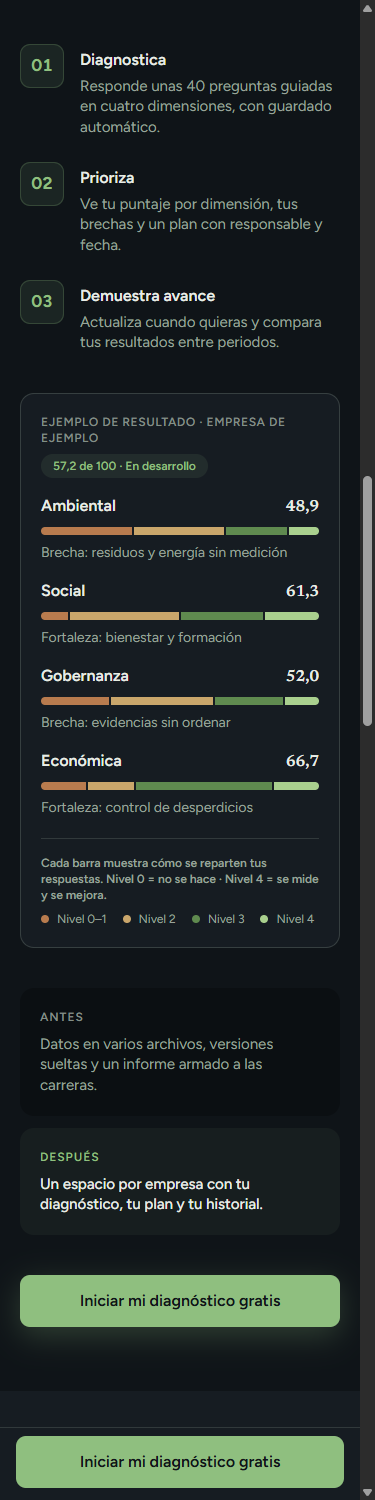
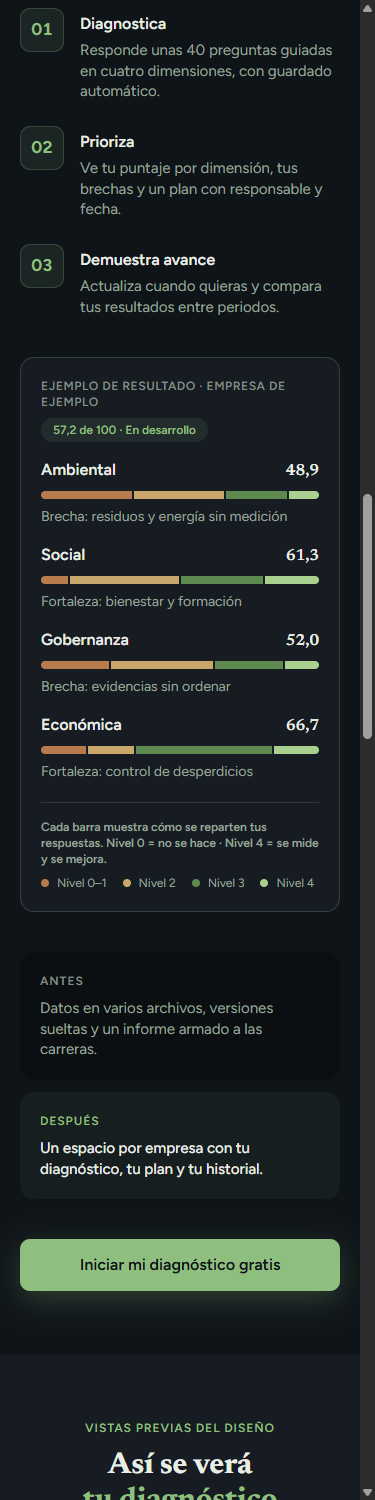
feat: agitacion con consecuencias, puente tras la calculadora, selector bajo el titulo, barra fija inteligente

diff --git a/components/landing/OfertaPorPerfil.tsx b/components/landing/OfertaPorPerfil.tsx
@@ -82,49 +82,49 @@ export function OfertaPorPerfil() {
   const [perfil, setPerfil] = useState<Perfil>('empresa');
   const planes = PLANES[perfil];
 
+  const selector = (
+    <div className="flex w-full max-w-md flex-col items-center gap-2">
+      <p className="text-sm font-medium text-[var(--text-secondary)]">¿Para quién es tu plan?</p>
+      <div
+        role="tablist"
+        aria-label="Tipo de plan"
+        className="flex w-full gap-1 rounded-[var(--radius-button)] border border-[color-mix(in_oklab,var(--text-tertiary)_35%,transparent)] bg-[var(--surface)] p-1"
+      >
+        {OPCIONES.map((op) => {
+          const activo = op.id === perfil;
+          return (
+            <button
+              key={op.id}
+              role="tab"
+              aria-selected={activo}
+              type="button"
+              onClick={() => setPerfil(op.id)}
+              onKeyDown={(e) => {
+                if (e.key === 'ArrowRight' || e.key === 'ArrowLeft') {
+                  e.preventDefault();
+                  setPerfil(op.id === 'empresa' ? 'consultor' : 'empresa');
+                }
+              }}
+              className={`flex min-h-12 flex-1 flex-col items-center justify-center rounded-[var(--radius-button)] px-3 text-sm font-semibold transition-colors duration-200 ${
+                activo ? 'bg-[var(--accent)] text-[var(--bg)]' : 'text-[var(--text-secondary)] hover:text-[var(--text-primary)]'
+              }`}
+            >
+              {op.label}
+              <span className={`text-xs font-medium ${activo ? 'opacity-80' : 'opacity-70'}`}>{op.detalle}</span>
+            </button>
+          );
+        })}
+      </div>
+    </div>
+  );
+
   return (
     <div id="planes">
-      <div className="bg-[var(--bg)] px-5 pt-16 md:pt-24">
-        <div className="mx-auto flex max-w-6xl flex-col items-center gap-2">
-          <p className="text-sm font-medium text-[var(--text-secondary)]">¿Para quién es tu plan?</p>
-          <div
-            role="tablist"
-            aria-label="Tipo de plan"
-            className="flex w-full max-w-md gap-1 rounded-[var(--radius-button)] border border-[color-mix(in_oklab,var(--text-tertiary)_35%,transparent)] bg-[var(--surface)] p-1"
-          >
-            {OPCIONES.map((o) => {
-              const activo = o.id === perfil;
-              return (
-                <button
-                  key={o.id}
-                  role="tab"
-                  aria-selected={activo}
-                  type="button"
-                  onClick={() => setPerfil(o.id)}
-                  onKeyDown={(e) => {
-                    if (e.key === 'ArrowRight' || e.key === 'ArrowLeft') {
-                      e.preventDefault();
-                      setPerfil(o.id === 'empresa' ? 'consultor' : 'empresa');
-                    }
-                  }}
-                  className={`flex min-h-12 flex-1 flex-col items-center justify-center rounded-[var(--radius-button)] px-3 text-sm font-semibold transition-colors duration-200 ${
-                    activo
-                      ? 'bg-[var(--accent)] text-[var(--bg)]'
-                      : 'text-[var(--text-secondary)] hover:text-[var(--text-primary)]'
-                  }`}
-                >
-                  {o.label}
-                  <span className={`text-xs font-medium ${activo ? 'opacity-80' : 'opacity-70'}`}>{o.detalle}</span>
-                </button>
-              );
-            })}
-          </div>
-        </div>
-      </div>
       <Oferta
         key={perfil}
         tituloMarked="Empieza gratis, [acento]sin tarjeta[/acento]"
         trialDias={TRIAL_DIAS}
+        selector={selector}
         anual={planes.anual}
         mensual={planes.mensual}
       />

diff --git a/components/landing/ui.tsx b/components/landing/ui.tsx
@@ -195,6 +195,7 @@ export function CtaButton({
         whileTap={{ scale: 0.97 }}
         href={href}
         aria-busy={estado === 'abriendo'}
+        data-cta-inline=""
         onClick={alTocar}
         className={`inline-flex w-full items-center justify-center whitespace-nowrap rounded-[var(--radius-button)] bg-[var(--accent)] px-4 text-center text-[16px] font-semibold text-[var(--bg)] shadow-[0_8px_30px_color-mix(in_oklab,var(--accent)_25%,transparent)] transition-colors duration-150 hover:bg-[color-mix(in_oklab,var(--accent)_88%,var(--text-primary))] sm:w-auto sm:px-8 sm:text-[17px] [touch-action:manipulation] ${
           alto === 56 ? 'h-14' : 'h-[52px]'
@@ -237,6 +238,7 @@ export function StickyCtaMobile({
   const [ofertaVisible, setOfertaVisible] = useState(false);
   const [ofertaVista, setOfertaVista] = useState(false);
   const [finalVisible, setFinalVisible] = useState(false);
+  const [botonVisible, setBotonVisible] = useState(false);
 
   useEffect(() => {
     const observar = (id: string, onChange: (visible: boolean) => void): IntersectionObserver | null => {
@@ -258,14 +260,28 @@ export function StickyCtaMobile({
       if (v) setOfertaVista(true);
     });
     const c = observar(ctaFinalId, setFinalVisible);
+    // Si ya hay un botón igual a la vista dentro de la página, la barra fija sobra: se esconde.
+    const aVista = new Set<Element>();
+    const botones = new IntersectionObserver(
+      (entries) => {
+        for (const e of entries) {
+          if (e.isIntersecting) aVista.add(e.target);
+          else aVista.delete(e.target);
+        }
+        setBotonVisible(aVista.size > 0);
+      },
+      { threshold: 0.6 }
+    );
+    document.querySelectorAll('[data-cta-inline]').forEach((el) => botones.observe(el));
     return () => {
       a?.disconnect();
       b?.disconnect();
       c?.disconnect();
+      botones.disconnect();
     };
   }, [heroId, ofertaId, ctaFinalId]);
 
-  const visible = !heroVisible && !ofertaVisible && !finalVisible;
+  const visible = !heroVisible && !ofertaVisible && !finalVisible && !botonVisible;
 
   return (
     <AnimatePresence>

diff --git a/components/landing/AgitacionCosto.tsx b/components/landing/AgitacionCosto.tsx
@@ -8,14 +8,15 @@
 
 import { useState } from 'react';
 import { motion } from 'motion/react';
-import { FileSpreadsheet, Minus, Plus, Repeat, SearchX } from 'lucide-react';
-import { IconChip, SectionShell, useReveal, VIEWPORT_ONCE } from './ui';
+import { Clock, Minus, Plus, ShieldQuestion, Zap } from 'lucide-react';
+import { CtaButton, IconChip, SectionShell, useReveal, VIEWPORT_ONCE } from './ui';
+import { CTA_HREF, CTA_LABEL } from '@/lib/site';
 import { MarkedCopy } from './MarkedCopy';
 
 const TARJETAS = [
-  { icon: Repeat, titulo: 'Rehaces', detalle: 'El mismo diagnóstico, cada vez que te lo piden.' },
-  { icon: FileSpreadsheet, titulo: 'Buscas', detalle: 'La última versión entre Excel y correos.' },
-  { icon: SearchX, titulo: 'Adivinas', detalle: 'Qué te falta, hasta que alguien lo pregunta.' },
+  { icon: Clock, titulo: 'Pierdes horas', detalle: 'Rehaciendo lo que ya habías hecho.' },
+  { icon: Zap, titulo: 'Respondes a las carreras', detalle: 'Cuando por fin encuentras los datos.' },
+  { icon: ShieldQuestion, titulo: 'Entregas con dudas', detalle: 'Sin saber si falta algo importante.' },
 ];
 
 const formato = new Intl.NumberFormat('es-CO', { maximumFractionDigits: 1 });
@@ -130,6 +131,13 @@ export function AgitacionCosto({ id }: { id?: string }) {
             </p>
           </div>
           <p className="mt-3 text-xs text-[var(--text-tertiary)]">Es una cuenta con tus números, no una estadística.</p>
+        </motion.div>
+
+        <motion.div variants={item} className="mt-8 flex flex-col items-center gap-4 text-center">
+          <p className="text-[17px] font-medium text-[var(--text-primary)]">
+            La Rueda de Madurez lo ordena <span className="text-[var(--accent)]">una sola vez</span>.
+          </p>
+          <CtaButton href={CTA_HREF}>{CTA_LABEL}</CtaButton>
         </motion.div>
       </motion.div>
     </SectionShell>

diff --git a/components/landing/Oferta.tsx b/components/landing/Oferta.tsx
@@ -8,6 +8,7 @@
 // la card recomendada (el uso canónico de la técnica) · checkmarks custom.
 // El destino de los CTAs sigue al MODELO de 02C (checkout vs /onboarding).
 
+import type { ReactNode } from 'react';
 import { motion } from 'motion/react';
 import { Star } from 'lucide-react';
 import { CheckCustom, CtaButton, Hairline, Kicker, SectionShell, useReveal, VIEWPORT_ONCE } from './ui';
@@ -47,6 +48,8 @@ export interface OfertaProps {
     totalTachado: string;
     nota?: string;
   };
+  /** Selector opcional bajo el título (p. ej. Empresa / Consultor). */
+  selector?: ReactNode;
   /** default 'oferta' — lo observa StickyCtaMobile. */
   id?: string;
 }
@@ -98,6 +101,7 @@ export function Oferta({
   anual,
   mensual,
   stack,
+  selector,
   id = 'oferta',
 }: OfertaProps) {
   warnCopy('Oferta → título', tituloMarked, 8);
@@ -112,6 +116,12 @@ export function Oferta({
             <MarkedCopy text={tituloMarked} />
           </h2>
         </motion.div>
+
+        {selector && (
+          <motion.div variants={item} className="mt-6 flex justify-center">
+            {selector}
+          </motion.div>
+        )}
 
         {/* Stack de valor Hormozi — ARRIBA de los planes; el tachado es del TOTAL
             del stack (nunca un precio mensual falso inflado — 50 C5) */}

diff --git a/components/landing/LandingPage.tsx b/components/landing/LandingPage.tsx
@@ -21,7 +21,7 @@ import { ANIO_COPYRIGHT, APP_NAME, CTA_HREF, CTA_LABEL, SOPORTE_EMAIL } from '@/
 
 export function LandingPage() {
   return (
-    <div className="min-h-dvh bg-[var(--bg)] text-[var(--text-primary)] [font-family:var(--font-body)]">
+    <div className="min-h-dvh bg-[var(--bg)] pb-20 text-[var(--text-primary)] [font-family:var(--font-body)] md:pb-0">
       {/* 1. HERO */}
       <Hero
         appName={APP_NAME}

diff --git a/docs/revisiones/landing-veredicto.md b/docs/revisiones/landing-veredicto.md
@@ -1,14 +1,45 @@
 # VEREDICTO revisor-visual — landing
-Fecha: 2026-10-21 21:00
+Fecha: 2026-10-21 23:00
 Screenshot: docs/revisiones/landing-375.png
 Usabilidad: 34/40
 Craft: 16/20
 Copy (si vende): 17/20
 Fidelidad (si hubo referencia): N-A
 Veredicto: NO LISTA
-Historial: 1a 28/40, 15/20, 14/20. 2a 31/40, 15/20, 16/20. 3a 33/40, 14/20, 17/20. 4a 33/40, 15/20, 17/20. 5a 34/40, 16/20, 17/20 (anterior -> nueva: usab 33->34, craft 15->16, copy 17->17).
+Historial: 1a 28/40, 15/20, 14/20. 2a 31/40, 15/20, 16/20. 3a 33/40, 14/20, 17/20. 4a 33/40, 15/20, 17/20. 5a 34/40, 16/20, 17/20. 6a 34/40, 16/20, 17/20.
+Anterior -> nueva (6a ronda): usabilidad 34 -> 34, craft 16 -> 16, copy 17 -> 17. La escaneabilidad mejoro claramente, pero no mueve ningun criterio de la rubrica un punto completo.
 Detalle: usabilidad h1:3 h2:4 h3:3 h4:4 h5:3 h6:4 h7:3 h8:3 h9:3 h10:4 · craft jerarquia:3 profundidad:3 identidad:4 movimiento:3 encaje:3 · copy idea:3 especificidad:3 emocion:3 oferta:4 accion:4
-Gate: craft 16/20 PASA, copy 17/20 PASA (ningun eje <=2), usabilidad 34/40 NO PASA (falta 2).
-Top defectos: 1) [Barra fija inferior, ui.tsx StickyCtaMobile + captura landing-375-ejemplo.png] sigue tapando la parte baja del mockup de telefono y no lleva la sombra tintada de CtaButton; el aviso de fallo agranda la barra y empuja contenido: anadir padding-bottom al final de las vistas previas y reservar alto fijo al aviso (h8). 2) [Hero.tsx, movimiento] la entrada es solo un fade de 300 ms; la rueda/arbol del hero es estatica y no hay stagger de titular, subtitulo y boton: escalonar 3 elementos y dibujar la rueda al cargar para llevar movimiento a 4. 3) [Fondo base de toda la pagina, profundidad] no hay textura/grano ni gradiente en el fondo (busqueda de grain/noise/background-image sin resultados): superficies planas alternadas base/elevado; anadir un tinte radial detras del hero y grano sutil para llevar profundidad a 4. 4) [Ejemplo de resultado, leyenda] la leyenda explica colores pero no dice que significan 0-1/2/3/4 en lenguaje del usuario ni muestra el conteo de respuestas por barra: anadir una frase "Nivel 4 = proceso medido y documentado" (h6/h10). 5) [Copy, ejes idea/especificidad/emocion en 3] el ejemplo sigue rotulado como muestra y no hay prueba real (cifra o testimonio verificable): anadir un dato verificable del metodo para subir especificidad a 4.
-Verificado en codigo: useEstadoCta compartido (Abriendo..., aria-busy, bloqueo de doble toque, fallo con solucion, reposo en pageshow, aviso se borra a los 6 s); barra fija 52 px igual que CtaButton; barra segmentada con --nivel-1..4, conteo y dibujado con useInView, reduced-motion respetado; useReveal usado en 8 secciones. CTA vivo: contraste y 52 px OK, whileTap OK, nunca disabled OK.
-Techo por Etapa 3: criterios h1 (carga real con red lenta), h3 (deshacer/volver en flujo), h5 (validacion de formularios), h7 (atajos/defaults del flujo) y h9 (errores reales de registro/pago) quedan en 3. Correccion a mi 4a ronda: con esos 5 en 3 (15 puntos) y 4 en h2, h4, h6, h8, h10 (20), el techo de la landing sola es 35/40, NO 36 (error aritmetico mio anterior). Hoy 34: el unico punto recuperable ahora es h8 (defecto 1). Llegar a 36 exige que al menos uno de h1/h3/h5/h7/h9 alcance 4, lo cual depende de la Etapa 3; el dueno debe decidir si acepta 35 como techo previo a la Etapa 3.
+Gate: craft 16/20 PASA, copy 17/20 PASA (ningun eje <=2), usabilidad 34/40 NO PASA. El techo aceptado por el dueno es 35 y NO se alcanzo (34): por eso NO aplica "PASA CON TECHO ACEPTADO". Falta 1 punto, y es recuperable ahora solo en h8 (defectos 1 y 2).
+Cuando llegue a 35 con craft y copy en su estado actual, el veredicto sera PASA CON TECHO ACEPTADO. Criterios que quedaran en 3 por depender de la Etapa 3 (flujo real): h1 (carga real con red lenta), h3 (deshacer/volver en el flujo de registro/pago), h5 (validacion de formularios reales), h7 (atajos/defaults del flujo), h9 (errores reales de registro/pago). Los otros cinco (h2, h4, h6, h8, h10) deben estar en 4: hoy h8 esta en 3.
+
+Top defectos:
+1. [Problema + Agitacion, capturas a y b] El mismo trio de dolores aparece dos veces seguidas: Problema (Excel sin ultima version / no sabes que te falta / documentos sueltos) y Agitacion (Rehaces / Buscas / Adivinas) repiten "ultima version entre Excel" y "que te falta". Son 6 tarjetas con icono para 3 ideas: cada elemento no se gana su lugar (h8) -> fusionar o quitar las 3 tarjetas de Agitacion y dejar solo titulo + calculadora, o que las tarjetas aporten un dolor nuevo (ej. consecuencia, no accion).
+2. [Calculadora, captura b] El momento de mayor emocion ("24 horas = 3 jornadas") termina sin boton ni puente a la solucion; el siguiente CTA llega recien tras el mecanismo. Ademas, el resultado no se conecta con la promesa -> anadir bajo el resultado una linea puente ("La Rueda de Madurez lo ordena una vez") y un boton inline, o un CTA justo tras la caja.
+3. [Barra fija + botones inline, capturas c y e] Con 7 apariciones del mismo boton, en varias capturas la barra fija queda apilada sobre un boton inline identico (captura c, parte baja) y tapa contenido (leyenda de la FAQ / fin de seccion). Es la misma accion, pero se siente repetitivo -> ocultar la barra fija cuando un boton inline esta en pantalla (IntersectionObserver) y mantener padding-bottom en la ultima seccion.
+4. [Movimiento y profundidad, toda la pagina] Sin cambios: entrada solo con reveal, rueda del hero sin dibujarse, fondo de superficies planas alternadas sin grano ni tinte radial detras del hero. Sostiene movimiento 3 y profundidad 3 -> escalonar titular/subtitulo/boton del hero, dibujar la rueda, tinte radial + grano sutil.
+5. [Respiro, captura d, antes del selector de plan] Hueco muerto de ~120 px entre la seccion de vistas previas y "Para quien es tu plan?" sin titulo ni separador; y en el selector "Mi empresa/Soy consultor" la jerarquia queda debajo del titulo "Empieza gratis" -> reducir el espaciado o mover el selector bajo el titulo de la oferta.
+
+## AUDITORIA DE ESCANEABILIDAD (375 px, sobre capturas a, b, c, d, oferta, garantia, e)
+
+| Seccion | Resultado | Motivo |
+|---|---|---|
+| Hero | ✅ | Titular de 4 lineas cortas con 2 palabras en acento; subtitulo 2 lineas; boton + microcopy 2 lineas; rueda como imagen. Ningun bloque pasa 4 lineas. |
+| Problema | ✅ | Titulo que se entiende solo; 3 preguntas, cada una con icono y 2-3 lineas. Reservas: repite lo que dice Agitacion (defecto 1). |
+| Agitacion | ❌ | Escaneable (titulo + 3 tarjetas con icono + calculadora con +/-, 48 px), sin bloques largos. Falla por redundancia con Problema y por terminar sin CTA ni puente (defectos 1 y 2). |
+| Solucion | ✅ | 3 pasos numerados 01/02/03 con 2-3 lineas; ejemplo de resultado con barras y 4 filas; antes/despues en 2 cajas cortas; boton repetido al final. Reserva: la leyenda de barras (3 lineas pequenas, texto ~12 px) es densa. |
+| La app por dentro | ✅ | Un solo telefono con titulo, pie y 5 puntos de paginacion; el siguiente se asoma como pista. Reserva: carrusel manual, el usuario puede no descubrir las otras 4 vistas. Boton repetido debajo. |
+| Oferta | ✅ | Precio en cajas (Anual destacada con "Mejor valor", Mensual debajo), precio grande, 4 bullets con check de 1-2 lineas, boton en cada caja. Reserva: hueco muerto sobre el selector (defecto 5). |
+| Garantia | ✅ | Caja con escudo, titulo y condicion en 2 lineas, dos cajas con icono (7 dias / 14 dias), 2-3 lineas cada una; boton inmediatamente despues. |
+| FAQ | ✅ | Acordeon de 6 preguntas, 1 abierta con respuesta de 3 lineas, resto cerrado; chevron visible. Reserva: la barra fija tapa parte de la ultima fila en captura. |
+| Cierre | ✅ | Titulo 2 lineas, texto 3 lineas, boton, microcopy y PS de 2 lineas. |
+| Pie | ✅ | Logo, 4 enlaces legales, copyright y correo; sobrio y legible. |
+
+Preguntas globales:
+- Bloque que supere 4 lineas seguidas a 375 px: NINGUNO. El mas largo son 3 lineas.
+- Dolores, pasos y beneficios con icono o numero: SI. Dolores con icono (Problema y Agitacion), pasos 01-03, beneficios con check, garantia con icono.
+- Prueba de solo-titulares: PASA CON RESERVA. Leyendo "Deja de reconstruir tus datos / Rehaces tu diagnostico cada vez que te lo piden? / Cada pedido te cuesta volver a empezar / Tu sostenibilidad, ordenada una sola vez / Asi se vera tu diagnostico / Empieza gratis, sin tarjeta / La Garantia del Primer Diagnostico / Lo que quiza te estas preguntando / Imagina responder con todo en orden" se entiende el problema, el costo, la promesa, el precio y la garantia. Reserva: "Lo lque quiza te estas preguntando" es un titulo vacio y "Tu sostenibilidad, ordenada una sola vez" no nombra el mecanismo hasta la etiqueta pequena.
+- Respiro visual entre bloques: SI, con una excepcion (hueco desproporcionado antes del selector de plan). Alternancia de fondo base/elevado clara.
+- FAQ en acordeon: SI.
+- Precio y garantia en cajas: SI, las dos.
+
+Verificado en codigo (AgitacionCosto.tsx): botones +/- de 48 px con aria-label, input numerico con limites (max 200/500, minimo 0, vacio -> 0), resultado en aria-live="polite", reveal escalonado con useReveal, valores de ejemplo rotulados, sin cifras inventadas. La calculadora no valida entradas decimales/negativas escritas a mano mas alla del recorte (aceptable). Verificacion de reduced-motion de la ronda previa sin cambios; las capturas del selector consultor y de escritorio son previas a esta ronda y no se re-puntuaron.
